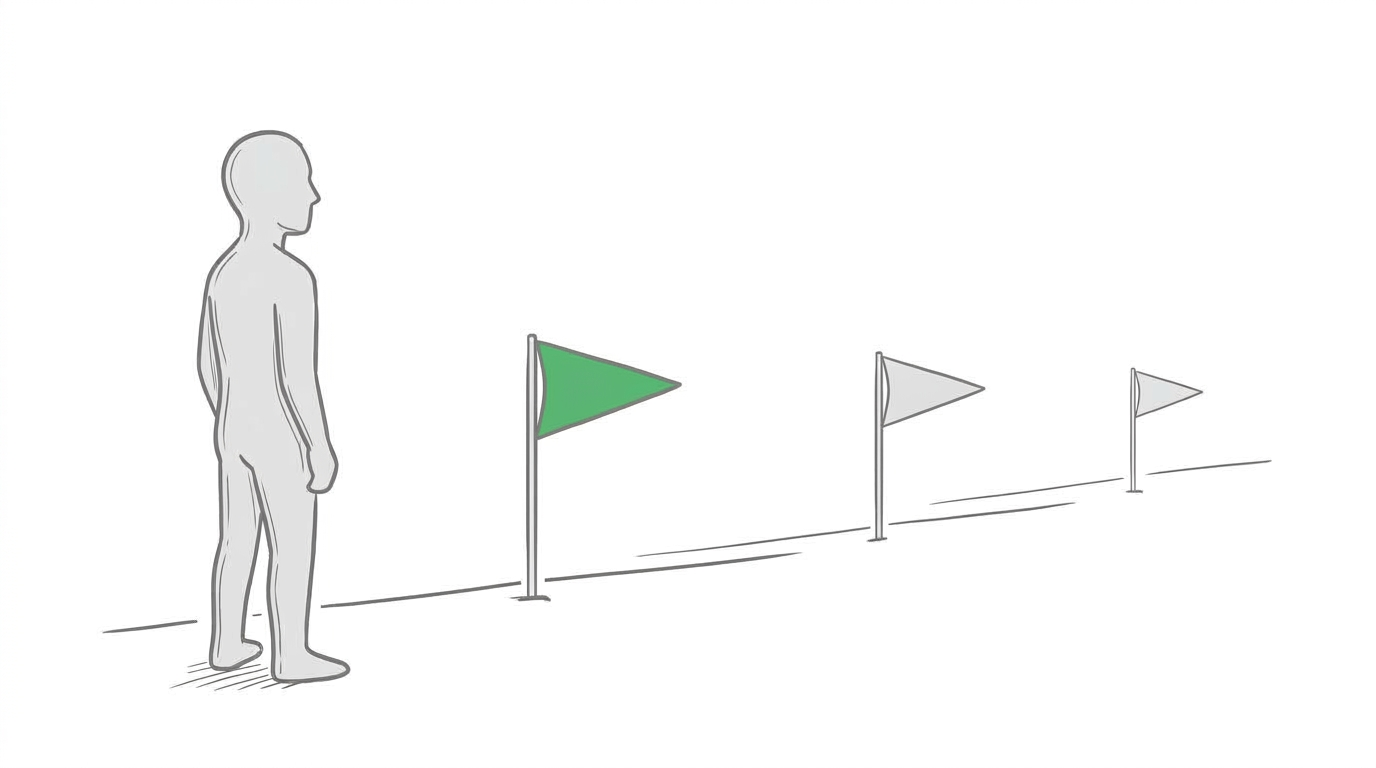
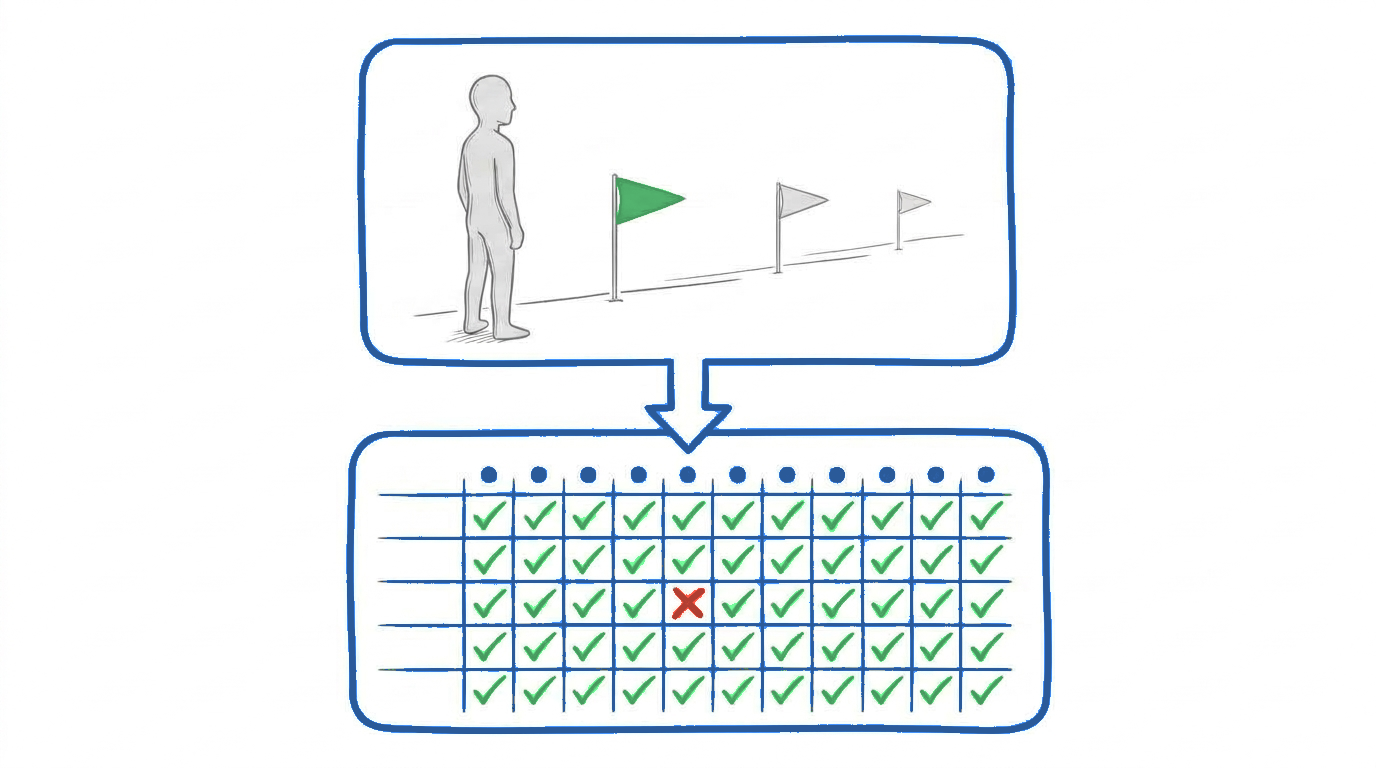
M3: replace QHAG image with composite (figure+flags above 5x13 sprint grid); add priority-filter rules to 1HAG and QHAG [baseline-refresh]
Image
- Composite generated via Nano Banana image-to-image: top half is the existing
  QHAG figure-and-three-flags scene (nearest flag green); bottom half is a
  5x13 sprint-lanes grid with every cell green-checked except one red X.
  Color-corrected via PIL HSV remap so green/blue/red snap to brand hex
  (#54B570 / #326AB5 / #D04A3A).
- Replaces shared/assets/deliverables/qhag.png in place; QHAG slide picks
  it up automatically via the q_hag image_key.

Text
- 1HAG bullet 2 rewritten: 'Every priority enables a 3HAG key capability
  AND improves Profit/X' (replaces the vaguer 'measurable outcome and clear
  connection to the 3HAG' line).
- QHAG bullet 2 inserted (and the now-redundant 'Each level must cascade
  cleanly' bullet dropped): 'Every priority enables a 1HAG priority OR
  improves Profit/X'. Asymmetry intentional: 1HAG is AND, QHAG is OR.

diff --git a/monthly/m3/index.html b/monthly/m3/index.html
@@ -851,7 +851,7 @@
                     <p class="slide-subtitle reveal">1-Year Highly Achievable Goal</p>
                     <ul class="talking-points">
                         <li class="reveal">3-5 corporate priorities with single owners - shared ownership is no ownership</li>
-                        <li class="reveal">Each priority needs a measurable outcome and a clear connection to the 3HAG</li>
+                        <li class="reveal">Every priority enables a 3HAG key capability AND improves Profit/X</li>
                         <li class="reveal">Translate year one of the 3HAG into actionable annual targets</li>
                     </ul>
                     <div class="slide-links reveal">
@@ -877,9 +877,9 @@
                     <h1 class="slide-title reveal">QHAG + 13-Week Sprint Lanes</h1>
                     <ul class="talking-points">
                         <li class="reveal">The 90-day plan: 3-5 priorities for this quarter, each with metrics and an owner</li>
+                        <li class="reveal">Every priority enables a 1HAG priority OR improves Profit/X</li>
                         <li class="reveal">Sprint Lanes: a 13-week grid with one binary deliverable per priority per week</li>
                         <li class="reveal">No gaps allowed - every week needs a milestone to prevent strategic work from slipping</li>
-                        <li class="reveal">Each level must cascade cleanly: if quarterly work doesn&#x27;t connect to the 3HAG, adjust</li>
                     </ul>
                     <div class="slide-links reveal">
                         <a href="https://www.darlison.com/where-are-you-going/" target="_blank" rel="noopener" class="link-article">Article</a>

diff --git a/build_slideshows.py b/build_slideshows.py
@@ -207,7 +207,7 @@ MEETINGS[3] = {
           image_key="one_hag",
           points=[
               "3-5 corporate priorities with single owners - shared ownership is no ownership",
-              "Each priority needs a measurable outcome and a clear connection to the 3HAG",
+              "Every priority enables a 3HAG key capability AND improves Profit/X",
               "Translate year one of the 3HAG into actionable annual targets",
           ]),
         D("QHAG + 13-Week Sprint Lanes", "★", "symbol-introduced", 21, 105,
@@ -216,9 +216,9 @@ MEETINGS[3] = {
           image_key="q_hag",
           points=[
               "The 90-day plan: 3-5 priorities for this quarter, each with metrics and an owner",
+              "Every priority enables a 1HAG priority OR improves Profit/X",
               "Sprint Lanes: a 13-week grid with one binary deliverable per priority per week",
               "No gaps allowed - every week needs a milestone to prevent strategic work from slipping",
-              "Each level must cascade cleanly: if quarterly work doesn't connect to the 3HAG, adjust",
           ]),
     ],
     "homework": [
